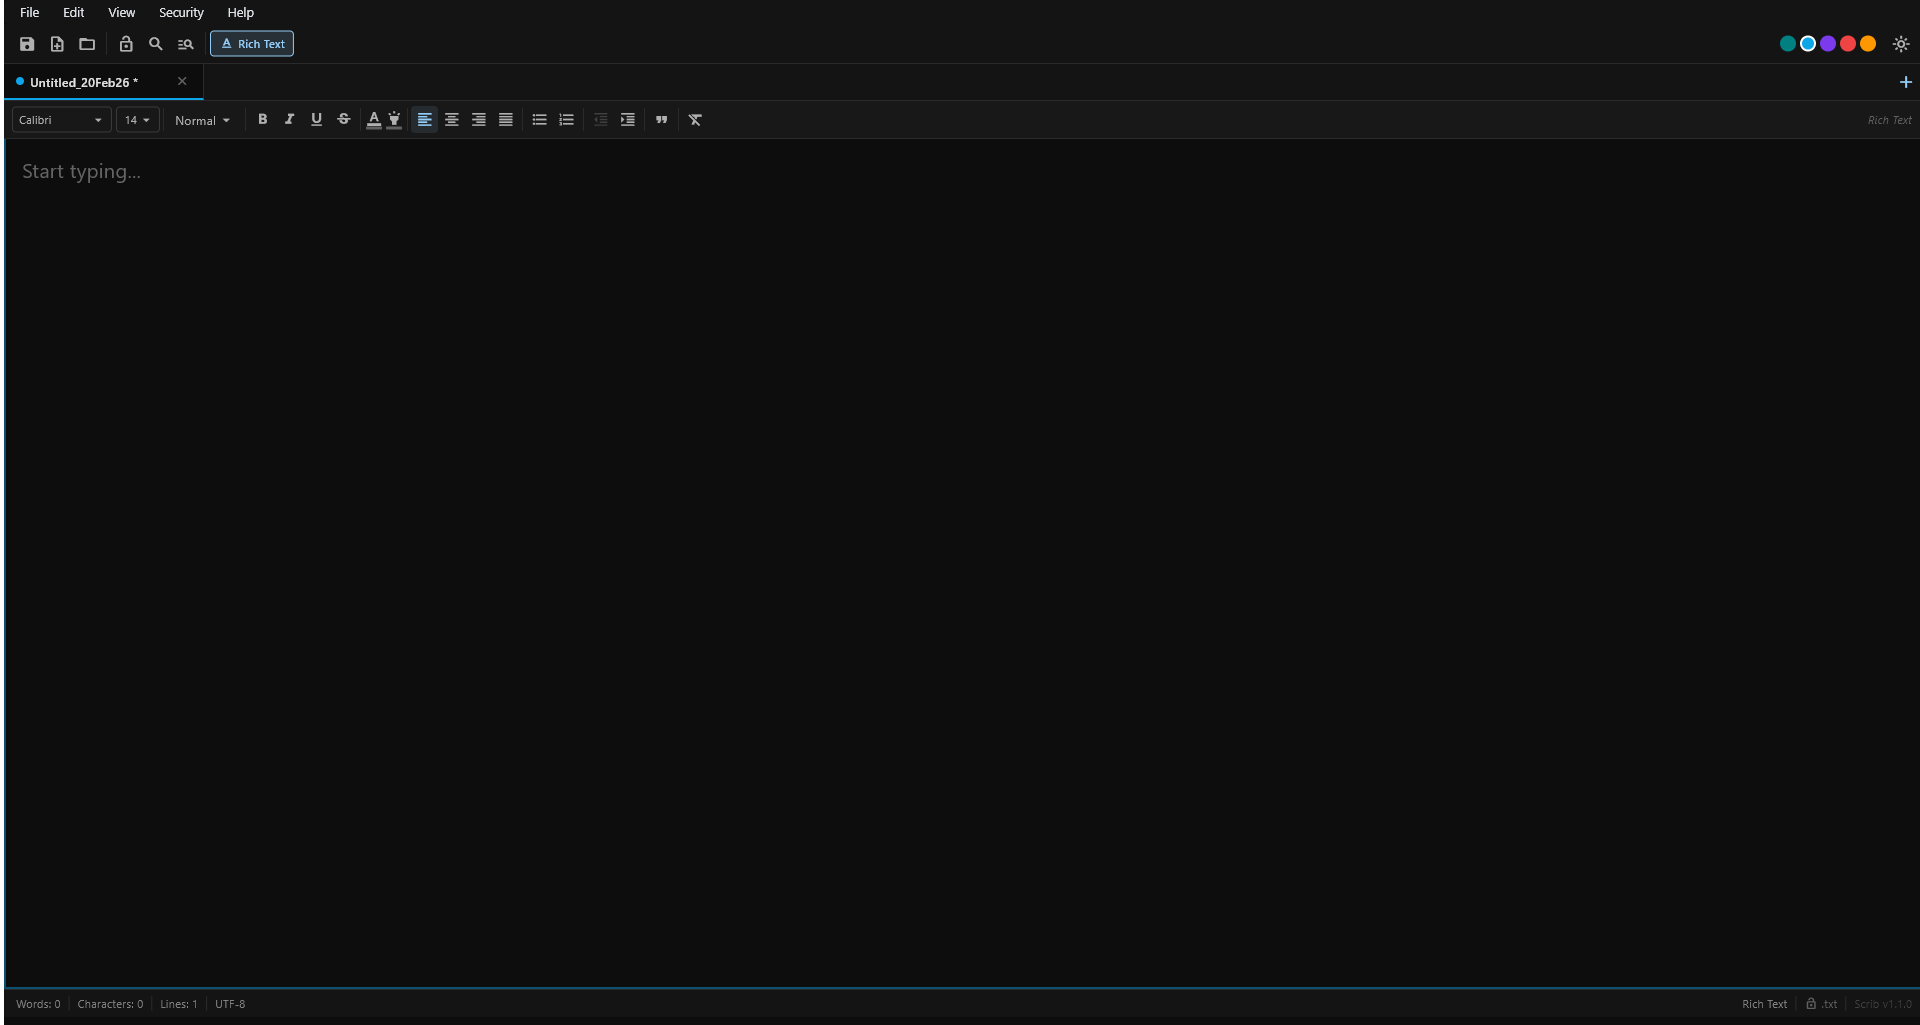
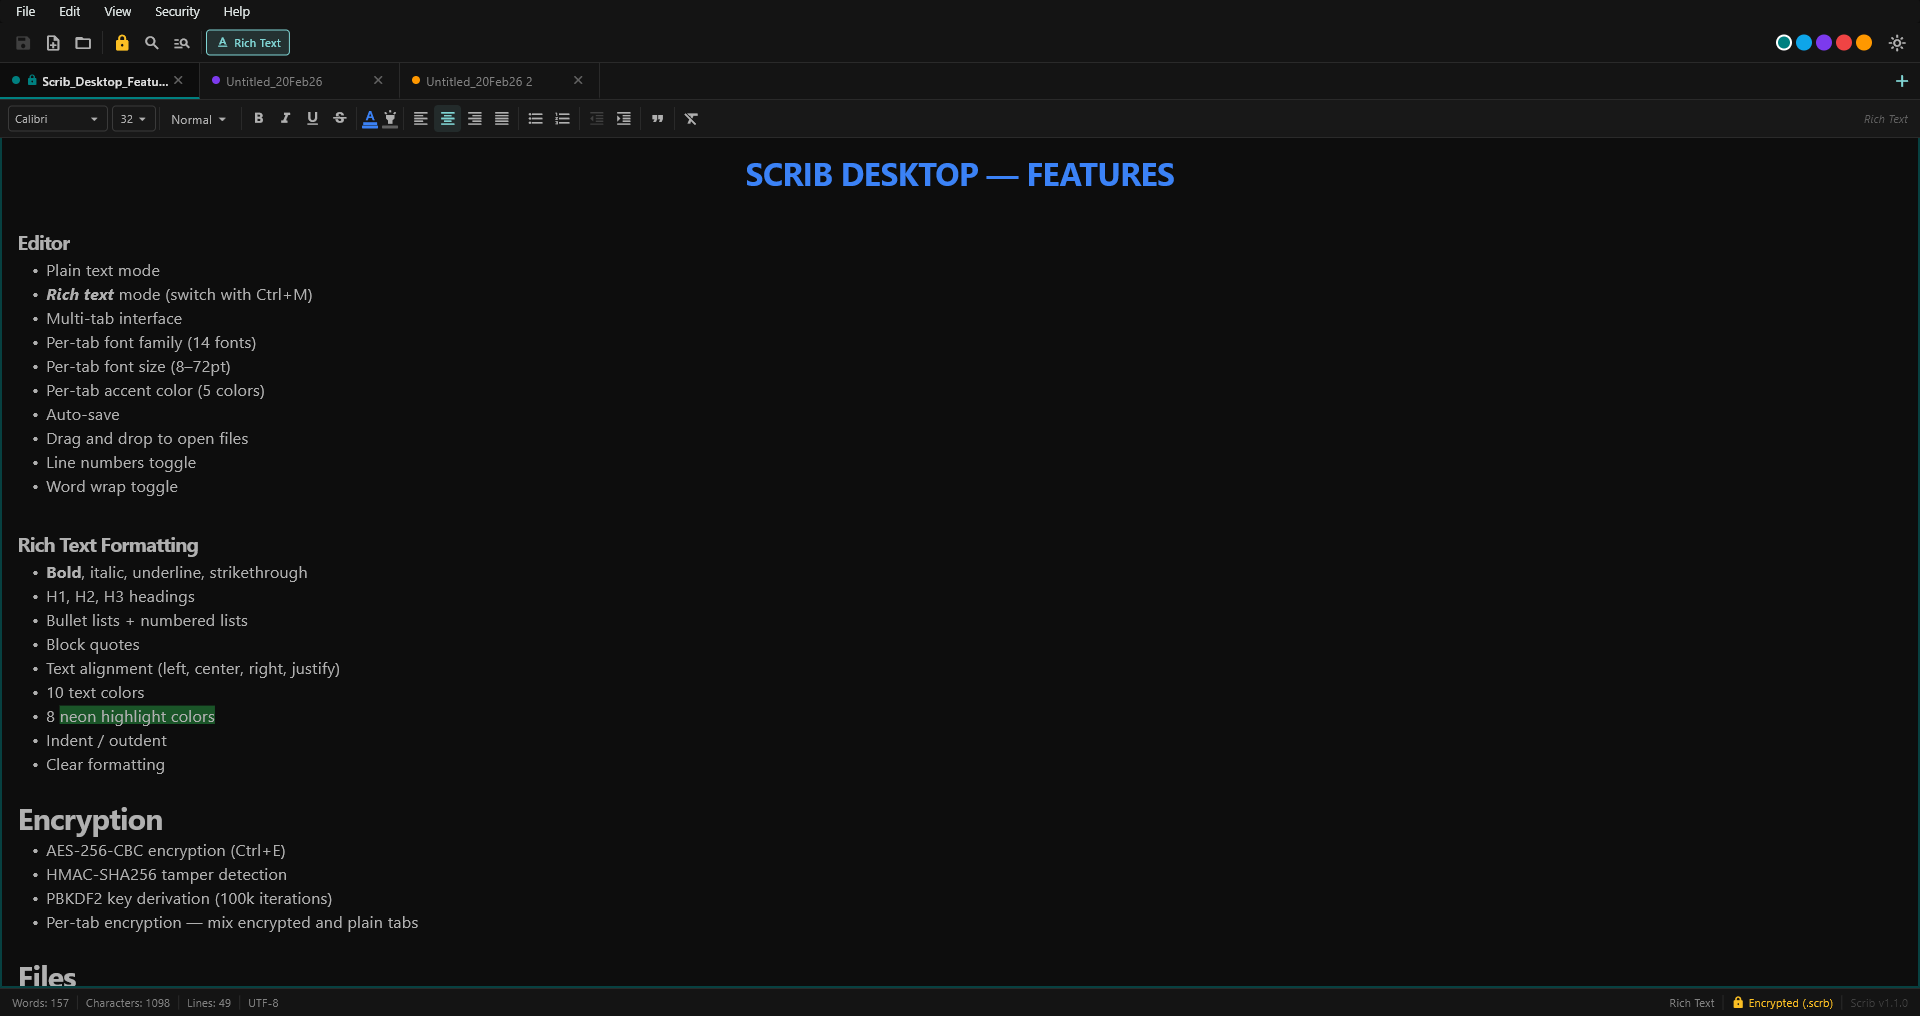
Update README screenshot to multi-tab feature showcase with encryption active

diff --git a/README.md b/README.md
@@ -21,7 +21,7 @@ Built by [Beeswax Pat](https://scrib.cfd/) with [Claude Code](https://claude.ai/
 
 ---
 
-![Scrib Desktop — dark theme with rich text toolbar and tab bar](screenshot.png)
+![Scrib Desktop — multi-tab, rich text, encrypted. Three tabs open with encryption active.](screenshot.png)
 
 ---
 
